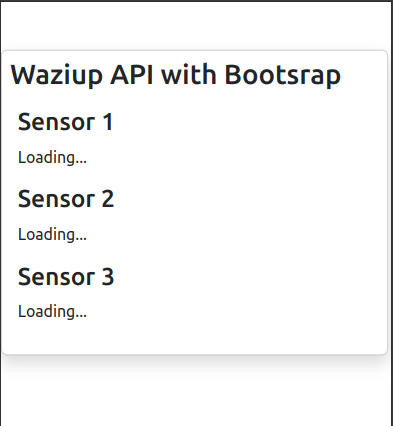
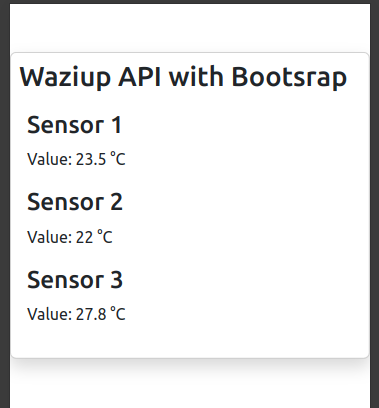
Fix: Bootstrap imgs

Changed region(s): [[0.0, 0.0, 1.0, 1.0]]

diff --git a/content/en/courses/6.WebApps/1.WebApps/_index.md b/content/en/courses/6.WebApps/1.WebApps/_index.md
@@ -289,9 +289,9 @@ Finally, we add the response from the request to the t1,t2,t3 IDs.
           const val2 = res2[0].value;
           const val3 = res3[0].value;
 
-          //document.getElementById('t1').innerHTML = `Value: ${val1} &degC`
-         // document.getElementById('t2').innerHTML = `Value: ${val2} &degC`
-        //  document.getElementById('t3').innerHTML = `Value: ${val3} &degC`
+          document.getElementById('t1').innerHTML = `Value: ${val1} &degC`
+          document.getElementById('t2').innerHTML = `Value: ${val2} &degC`
+          document.getElementById('t3').innerHTML = `Value: ${val3} &degC`
           
       } catch(error){
           console.log(error)
